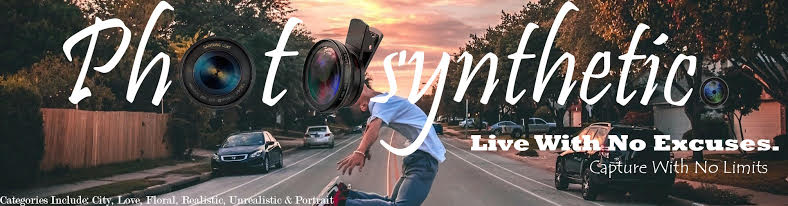
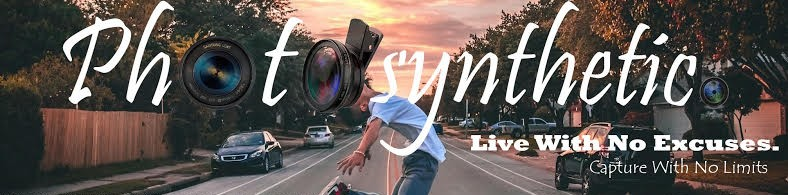
Maked Simple change to layout for better display pushed to heroku

diff --git a/static/css/styles.css b/static/css/styles.css
@@ -3,7 +3,7 @@
                                                                                 /* IMAGE DISPLAY STYLER */
 
                                                                                     .carousel-inner{
-                                                                                        height: 400px;
+                                                                                    height: 340px;
                                                                                     }
 
 
@@ -19,7 +19,7 @@
                                                                                     
                                                                                     }
                                                                                     .carousel-caption {
-                                                                                        bottom: 10%;
+                                                                                    bottom: 10%;
                                                                                     }
 
                                                                                 /* END OF IMAGE DISPLAY STYLER */
